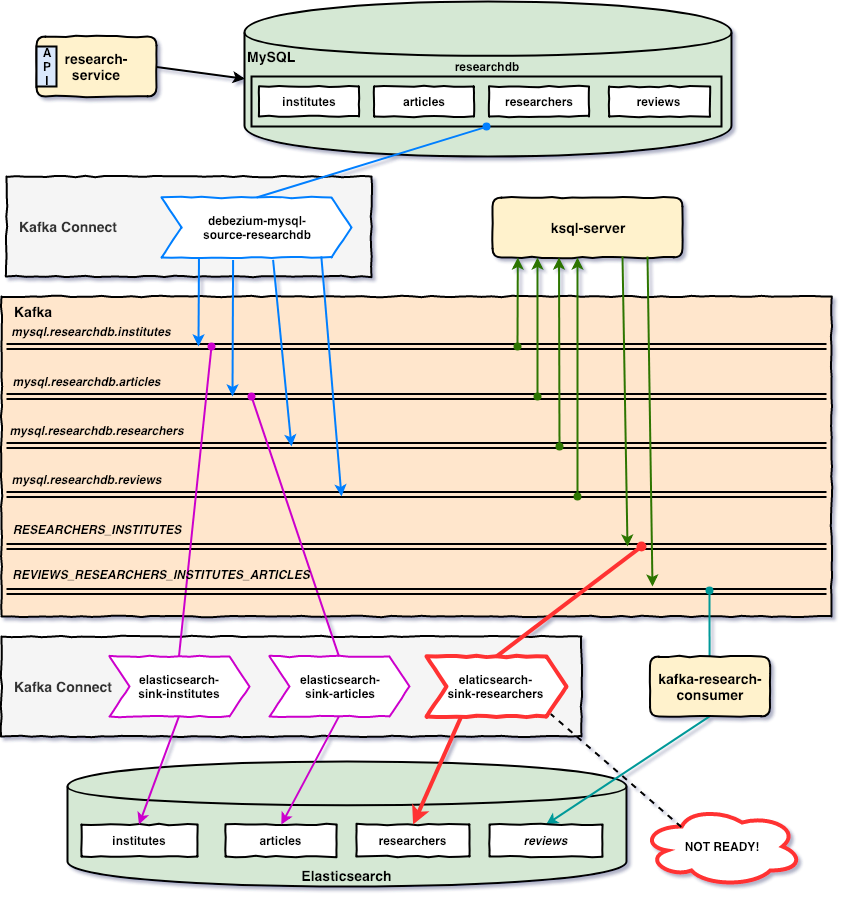
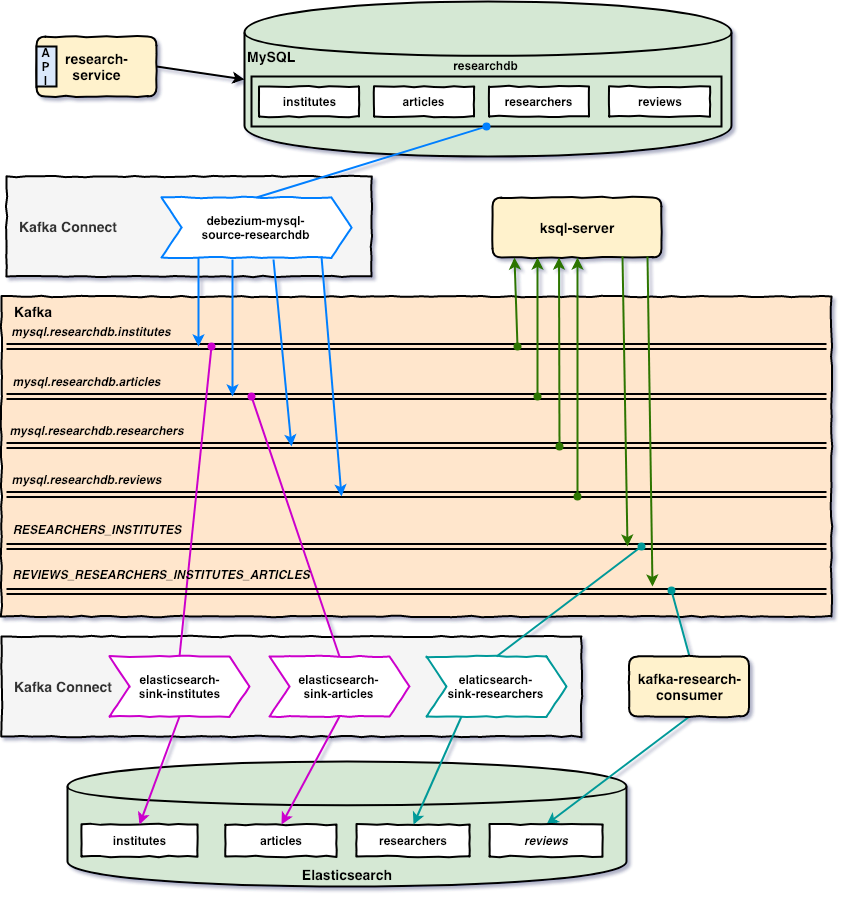
changes: - create RESEARCHERS_INSTITUTES stream; - configure Elasticsearch Sink Connector to listen from the topics `RESEARCHERS_INSTITUTES`; - update README.

diff --git a/kafka-research-consumer/src/main/java/com/mycompany/research/avro/ReviewMessage.java b/kafka-research-consumer/src/main/java/com/mycompany/research/avro/ReviewMessage.java
@@ -13,8 +13,8 @@ import org.apache.avro.message.SchemaStore;
 @SuppressWarnings("all")
 @org.apache.avro.specific.AvroGenerated
 public class ReviewMessage extends org.apache.avro.specific.SpecificRecordBase implements org.apache.avro.specific.SpecificRecord {
-  private static final long serialVersionUID = -5416322796159296127L;
-  public static final org.apache.avro.Schema SCHEMA$ = new org.apache.avro.Schema.Parser().parse("{\"type\":\"record\",\"name\":\"ReviewMessage\",\"namespace\":\"com.mycompany.research.avro\",\"fields\":[{\"name\":\"REVIEW_ID\",\"type\":[\"null\",\"long\"],\"default\":null},{\"name\":\"ARTICLE_ID\",\"type\":[\"null\",\"long\"],\"default\":null},{\"name\":\"ARTICLE_TITLE\",\"type\":[\"null\",\"string\"],\"default\":null},{\"name\":\"REVIEWER_ID\",\"type\":[\"null\",\"long\"],\"default\":null},{\"name\":\"REVIEWER_FIRST_NAME\",\"type\":[\"null\",\"string\"],\"default\":null},{\"name\":\"REVIEWER_LAST_NAME\",\"type\":[\"null\",\"string\"],\"default\":null},{\"name\":\"INSTITUTE_ID\",\"type\":[\"null\",\"long\"],\"default\":null},{\"name\":\"INSTITUTE_NAME\",\"type\":[\"null\",\"string\"],\"default\":null},{\"name\":\"COMMENT\",\"type\":[\"null\",\"string\"],\"default\":null},{\"name\":\"CREATED_AT\",\"type\":[\"null\",\"string\"],\"default\":null}]}");
+  private static final long serialVersionUID = -883489963287657117L;
+  public static final org.apache.avro.Schema SCHEMA$ = new org.apache.avro.Schema.Parser().parse("{\"type\":\"record\",\"name\":\"ReviewMessage\",\"namespace\":\"com.mycompany.research.avro\",\"fields\":[{\"name\":\"REVIEW_ID\",\"type\":[\"null\",\"long\"],\"default\":null},{\"name\":\"ARTICLE_ID\",\"type\":[\"null\",\"long\"],\"default\":null},{\"name\":\"ARTICLE_TITLE\",\"type\":[\"null\",\"string\"],\"default\":null},{\"name\":\"REVIEWER_ID\",\"type\":[\"null\",\"long\"],\"default\":null},{\"name\":\"REVIEWER_FIRST_NAME\",\"type\":[\"null\",\"string\"],\"default\":null},{\"name\":\"REVIEWER_LAST_NAME\",\"type\":[\"null\",\"string\"],\"default\":null},{\"name\":\"INSTITUTE_ID\",\"type\":[\"null\",\"long\"],\"default\":null},{\"name\":\"INSTITUTE_NAME\",\"type\":[\"null\",\"string\"],\"default\":null},{\"name\":\"COMMENT\",\"type\":[\"null\",\"string\"],\"default\":null},{\"name\":\"CREATED_AT\",\"type\":[\"null\",\"long\"],\"default\":null}]}");
   public static org.apache.avro.Schema getClassSchema() { return SCHEMA$; }
 
   private static SpecificData MODEL$ = new SpecificData();
@@ -60,7 +60,7 @@ public class ReviewMessage extends org.apache.avro.specific.SpecificRecordBase i
   @Deprecated public java.lang.Long INSTITUTE_ID;
   @Deprecated public java.lang.CharSequence INSTITUTE_NAME;
   @Deprecated public java.lang.CharSequence COMMENT;
-  @Deprecated public java.lang.CharSequence CREATED_AT;
+  @Deprecated public java.lang.Long CREATED_AT;
 
   /**
    * Default constructor.  Note that this does not initialize fields
@@ -82,7 +82,7 @@ public class ReviewMessage extends org.apache.avro.specific.SpecificRecordBase i
    * @param COMMENT The new value for COMMENT
    * @param CREATED_AT The new value for CREATED_AT
    */
-  public ReviewMessage(java.lang.Long REVIEW_ID, java.lang.Long ARTICLE_ID, java.lang.CharSequence ARTICLE_TITLE, java.lang.Long REVIEWER_ID, java.lang.CharSequence REVIEWER_FIRST_NAME, java.lang.CharSequence REVIEWER_LAST_NAME, java.lang.Long INSTITUTE_ID, java.lang.CharSequence INSTITUTE_NAME, java.lang.CharSequence COMMENT, java.lang.CharSequence CREATED_AT) {
+  public ReviewMessage(java.lang.Long REVIEW_ID, java.lang.Long ARTICLE_ID, java.lang.CharSequence ARTICLE_TITLE, java.lang.Long REVIEWER_ID, java.lang.CharSequence REVIEWER_FIRST_NAME, java.lang.CharSequence REVIEWER_LAST_NAME, java.lang.Long INSTITUTE_ID, java.lang.CharSequence INSTITUTE_NAME, java.lang.CharSequence COMMENT, java.lang.Long CREATED_AT) {
     this.REVIEW_ID = REVIEW_ID;
     this.ARTICLE_ID = ARTICLE_ID;
     this.ARTICLE_TITLE = ARTICLE_TITLE;
@@ -126,7 +126,7 @@ public class ReviewMessage extends org.apache.avro.specific.SpecificRecordBase i
     case 6: INSTITUTE_ID = (java.lang.Long)value$; break;
     case 7: INSTITUTE_NAME = (java.lang.CharSequence)value$; break;
     case 8: COMMENT = (java.lang.CharSequence)value$; break;
-    case 9: CREATED_AT = (java.lang.CharSequence)value$; break;
+    case 9: CREATED_AT = (java.lang.Long)value$; break;
     default: throw new org.apache.avro.AvroRuntimeException("Bad index");
     }
   }
@@ -279,7 +279,7 @@ public class ReviewMessage extends org.apache.avro.specific.SpecificRecordBase i
    * Gets the value of the 'CREATED_AT' field.
    * @return The value of the 'CREATED_AT' field.
    */
-  public java.lang.CharSequence getCREATEDAT() {
+  public java.lang.Long getCREATEDAT() {
     return CREATED_AT;
   }
 
@@ -287,7 +287,7 @@ public class ReviewMessage extends org.apache.avro.specific.SpecificRecordBase i
    * Sets the value of the 'CREATED_AT' field.
    * @param value the value to set.
    */
-  public void setCREATEDAT(java.lang.CharSequence value) {
+  public void setCREATEDAT(java.lang.Long value) {
     this.CREATED_AT = value;
   }
 
@@ -332,7 +332,7 @@ public class ReviewMessage extends org.apache.avro.specific.SpecificRecordBase i
     private java.lang.Long INSTITUTE_ID;
     private java.lang.CharSequence INSTITUTE_NAME;
     private java.lang.CharSequence COMMENT;
-    private java.lang.CharSequence CREATED_AT;
+    private java.lang.Long CREATED_AT;
 
     /** Creates a new Builder */
     private Builder() {
@@ -790,7 +790,7 @@ public class ReviewMessage extends org.apache.avro.specific.SpecificRecordBase i
       * Gets the value of the 'CREATED_AT' field.
       * @return The value.
       */
-    public java.lang.CharSequence getCREATEDAT() {
+    public java.lang.Long getCREATEDAT() {
       return CREATED_AT;
     }
 
@@ -799,7 +799,7 @@ public class ReviewMessage extends org.apache.avro.specific.SpecificRecordBase i
       * @param value The value of 'CREATED_AT'.
       * @return This builder.
       */
-    public com.mycompany.research.avro.ReviewMessage.Builder setCREATEDAT(java.lang.CharSequence value) {
+    public com.mycompany.research.avro.ReviewMessage.Builder setCREATEDAT(java.lang.Long value) {
       validate(fields()[9], value);
       this.CREATED_AT = value;
       fieldSetFlags()[9] = true;
@@ -839,7 +839,7 @@ public class ReviewMessage extends org.apache.avro.specific.SpecificRecordBase i
         record.INSTITUTE_ID = fieldSetFlags()[6] ? this.INSTITUTE_ID : (java.lang.Long) defaultValue(fields()[6]);
         record.INSTITUTE_NAME = fieldSetFlags()[7] ? this.INSTITUTE_NAME : (java.lang.CharSequence) defaultValue(fields()[7]);
         record.COMMENT = fieldSetFlags()[8] ? this.COMMENT : (java.lang.CharSequence) defaultValue(fields()[8]);
-        record.CREATED_AT = fieldSetFlags()[9] ? this.CREATED_AT : (java.lang.CharSequence) defaultValue(fields()[9]);
+        record.CREATED_AT = fieldSetFlags()[9] ? this.CREATED_AT : (java.lang.Long) defaultValue(fields()[9]);
         return record;
       } catch (java.lang.Exception e) {
         throw new org.apache.avro.AvroRuntimeException(e);

diff --git a/kafka-research-consumer/src/main/java/com/mycompany/kafkaresearchconsumer/model/Review.java b/kafka-research-consumer/src/main/java/com/mycompany/kafkaresearchconsumer/model/Review.java
@@ -5,7 +5,7 @@ import org.springframework.data.annotation.Id;
 import org.springframework.data.elasticsearch.annotations.Document;
 
 @Data
-@Document(indexName = "reviews.v1", type = "review")
+@Document(indexName = "reviews", type = "review")
 public class Review {
 
     @Id

diff --git a/README.md b/README.md
@@ -5,7 +5,7 @@
 The goal of this project is to play with [`Kafka`](https://kafka.apache.org), [`Debezium`](https://debezium.io/) and
 [`KSQL`](https://www.confluent.io/product/ksql/). For this, we have: `research-service` that inserts/updates/deletes
 records in [`MySQL`](https://www.mysql.com); `Source Connectors` that monitor change of records in MySQL and push
-messages related to those changes to Kafka; `Sink Connectors` and `kafka-research-consumer` that read messages from
+messages related to those changes to Kafka; `Sink Connectors` and `kafka-research-consumer` that listen messages from
 Kafka and insert/update documents in [`Elasticsearch`](https://www.elastic.co); finally, `KSQL-Server` that listens
 some topics in Kafka, does some joins and pushes new messages to new topics in Kafka.
 
@@ -22,7 +22,7 @@ _"simulate"_ an automatic and random creation of reviews.
 ### kafka-research-consumer
 
 Spring-boot application that listens messages from the topic `REVIEWS_RESEARCHERS_INSTITUTES_ARTICLES` (that is one of
-`KSQL` outputs) and save the payload of those messages (i.e, reviews) in `Elasticsearch`.
+`KSQL` outputs) and save the payload of those messages (i.e, reviews with detailed information) in `Elasticsearch`.
 
 ## Start Environment
 
@@ -51,22 +51,26 @@ docker-compose up -d
 docker-compose ps
 ```
 
-### Create connectors
+### Create connectors (3/4)
 
-1. In a terminal, run the following script to create the connectors on `kafka-connect`
+1. In a terminal, run the following `curl` commands to create `debezium` and 2 `elasticsearch-sink` connectors on `kafka-connect`
 ```
-./create-connectors.sh
+curl -i -X POST http://localhost:8083/connectors -H 'Content-Type: application/json' -d @connectors/debezium-mysql-source-researchdb.json
+curl -i -X POST http://localhost:8083/connectors -H 'Content-Type: application/json' -d @connectors/elasticsearch-sink-institutes.json
+curl -i -X POST http://localhost:8083/connectors -H 'Content-Type: application/json' -d @connectors/elasticsearch-sink-articles.json
 ```
 
-2. You can check the state of the connectors and their tasks on `Kafka Connect UI` (http://localhost:8086) or
-running the following script
+2. You can check the state of the connectors and their tasks on `Kafka Connect UI` (http://localhost:8086) or calling
+kafka-connect endpoint
 ```
-./check-connectors-state.sh
+curl localhost:8083/connectors/debezium-mysql-source-researchdb/status
+curl localhost:8083/connectors/elasticsearch-sink-institutes/status
+curl localhost:8083/connectors/elasticsearch-sink-articles/status
 ```
 
 ### Run research-service
 
-There are two ways to run `research-service`: REST API or Batch Simulation
+There are two ways to run `research-service`: **REST API** or **Batch Simulation**
 
 #### REST API
 
@@ -103,25 +107,55 @@ default values
 
 ### Run ksql-cli
 
-1. Run the following command to start `ksql-cli`
+1. In a new terminal, inside `/springboot-kafka-debezium-ksql` root folder, run the `docker` command below to start `ksql-cli`
 ```
 docker run -it --rm --name ksql-cli \
   --network springboot-kafka-debezium-ksql_default \
-  --volume $PWD/docker/ksql/create.research.streams.tables:/tmp/ksql/create.research.streams.tables \
+  -v $PWD/docker/ksql/researchers-institutes.ksql:/tmp/researchers-institutes.ksql \
+  -v $PWD/docker/ksql/reviews-researchers-institutes-articles.ksql:/tmp/reviews-researchers-institutes-articles.ksql \
   confluentinc/cp-ksql-cli:5.1.0 http://ksql-server:8088
 ```
 
-2. Inside `ksql-cli`, run script to create streams and tables
-```
-RUN SCRIPT '/tmp/ksql/create.research.streams.tables';
-```
+2. On `ksql-cli` command line, run the following commands
 
-3. Some commands to check if everything is set
+- Set `auto.offset.reset` value
 ```
 SET 'auto.offset.reset' = 'earliest';
+```
 
+- Run the following script. It will create `RESEARCHERS_INSTITUTES` topic
+```
+RUN SCRIPT '/tmp/researchers-institutes.ksql';
+```
+
+- check whether the topic was created 
+```
+DESCRIBE RESEARCHERS_INSTITUTES;
+SELECT * from RESEARCHERS_INSTITUTES LIMIT 5;
+```
+
+- Run the script below. It will create `REVIEWS_RESEARCHERS_INSTITUTES_ARTICLES` topic
+```
+RUN SCRIPT '/tmp/reviews-researchers-institutes-articles.ksql';
+```
+
+- check whether the topic was created
+```
 DESCRIBE REVIEWS_RESEARCHERS_INSTITUTES_ARTICLES;
-SELECT * from REVIEWS_RESEARCHERS_INSTITUTES_ARTICLES;
+SELECT * from REVIEWS_RESEARCHERS_INSTITUTES_ARTICLES LIMIT 5;
+```
+
+### Create connectors (4/4)
+
+1. In a terminal, run the `curl` command below to create `elasticsearch-sink-researchers` connector on `kafka-connect`
+```
+curl -i -X POST http://localhost:8083/connectors -H 'Content-Type: application/json' -d @connectors/elasticsearch-sink-researchers.json
+```
+
+2. You can check the state of the connectors and their tasks on `Kafka Connect UI` (http://localhost:8086) or calling
+kafka-connect endpoint
+```
+curl localhost:8083/connectors/elasticsearch-sink-researchers/status
 ```
 
 ### Run kafka-research-consumer
@@ -129,6 +163,33 @@ SELECT * from REVIEWS_RESEARCHERS_INSTITUTES_ARTICLES;
 In a new terminal, run the command below inside `/springboot-kafka-debezium-ksql/kafka-research-consumer`
 ```
 ./mvnw spring-boot:run
+```
+
+### Check records in Elasticsearch
+
+- To get all indices
+```
+curl localhost:9200/_cat/indices?v
+```
+
+- To retrieve articles
+```
+curl localhost:9200/articles/_search?pretty
+```
+
+- To retrieve institutes
+```
+curl localhost:9200/institutes/_search?pretty
+```
+
+- To retrieve researchers
+```
+curl localhost:9200/researchers/_search?pretty
+```
+
+- To retrieve reviews
+```
+curl localhost:9200/reviews/_search?pretty
 ```
 
 ## Useful links & commands
@@ -142,23 +203,15 @@ SELECT a.id AS review_id, c.id AS article_id, c.title AS article_title, b.id AS 
   WHERE a.researcher_id = b.id and a.article_id = c.id;
 ```
 
-### Elasticsearch
-```
-curl localhost:9200/_cat/indices?v
-curl localhost:9200/institutes/_search?pretty
-curl localhost:9200/articles/_search?pretty
-curl localhost:9200/reviews.v1/_search?pretty
-```
-
 ## TODO
 
-1. Create indices dynamically and add an `alias` for them. 
+1. Create indices dynamically and add an `alias` for them.
 
-2. Create `RESEARCHERS_INSTITUTES` stream in `ksql.commands` file.
+2. Fix the UPPERCASE field names that `KSQL` is generating. It is possible using double-quotes but, tried and it breaks
+the `CREATE STREAM`.
+`Allow statement to specify the casing (camel case, uppercase, etc) for field names when serialized to output topic #1039` https://github.com/confluentinc/ksql/issues/1039
 
-3. Configure `Elasticsearch Sink Connector` to listen successfully from the topics `RESEARCHERS_INSTITUTES`.
-
-4. replace the deprecated `topic.index.map` configured in `elasticsearch-sink-*` connectors:
+2. Replace the deprecated `topic.index.map` configured in `elasticsearch-sink-*` connectors:
 Waiting for those `kafka-connect-elasticsearch` issues to be fixed:
 - `Create indices before writing records #261` https://github.com/confluentinc/kafka-connect-elasticsearch/pull/261
 - `ConnectException: Cannot create mapping when using RegexRouter/TimestampRouter SMT #99` https://github.com/confluentinc/kafka-connect-elasticsearch/issues/99
